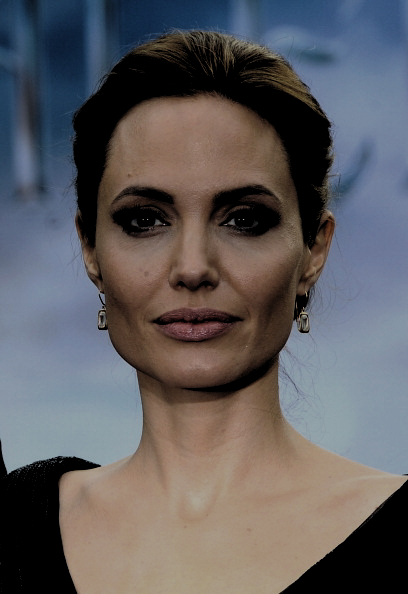
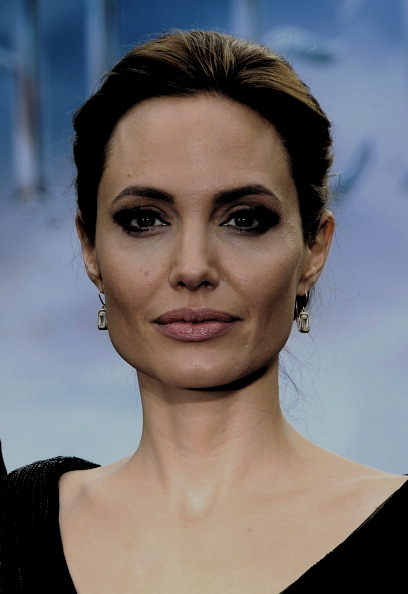
feat: try adjust black

diff --git a/main.ts b/main.ts
@@ -1,4 +1,4 @@
 import Adjustment from "./util/adjustment.ts";
 
 
-Adjustment.changeAndSaveBlacks('img10.jpg', 'img10_edited.jpg', -40);
+Adjustment.changeAndSaveBlacks('img10.jpg', 'img10_edited.jpg', -60);

diff --git a/Readme.md b/Readme.md
@@ -1,0 +1,5 @@
+# Adjust Image RGB JS
+
+## How to run
+
+`ts-node --esm main.ts`
